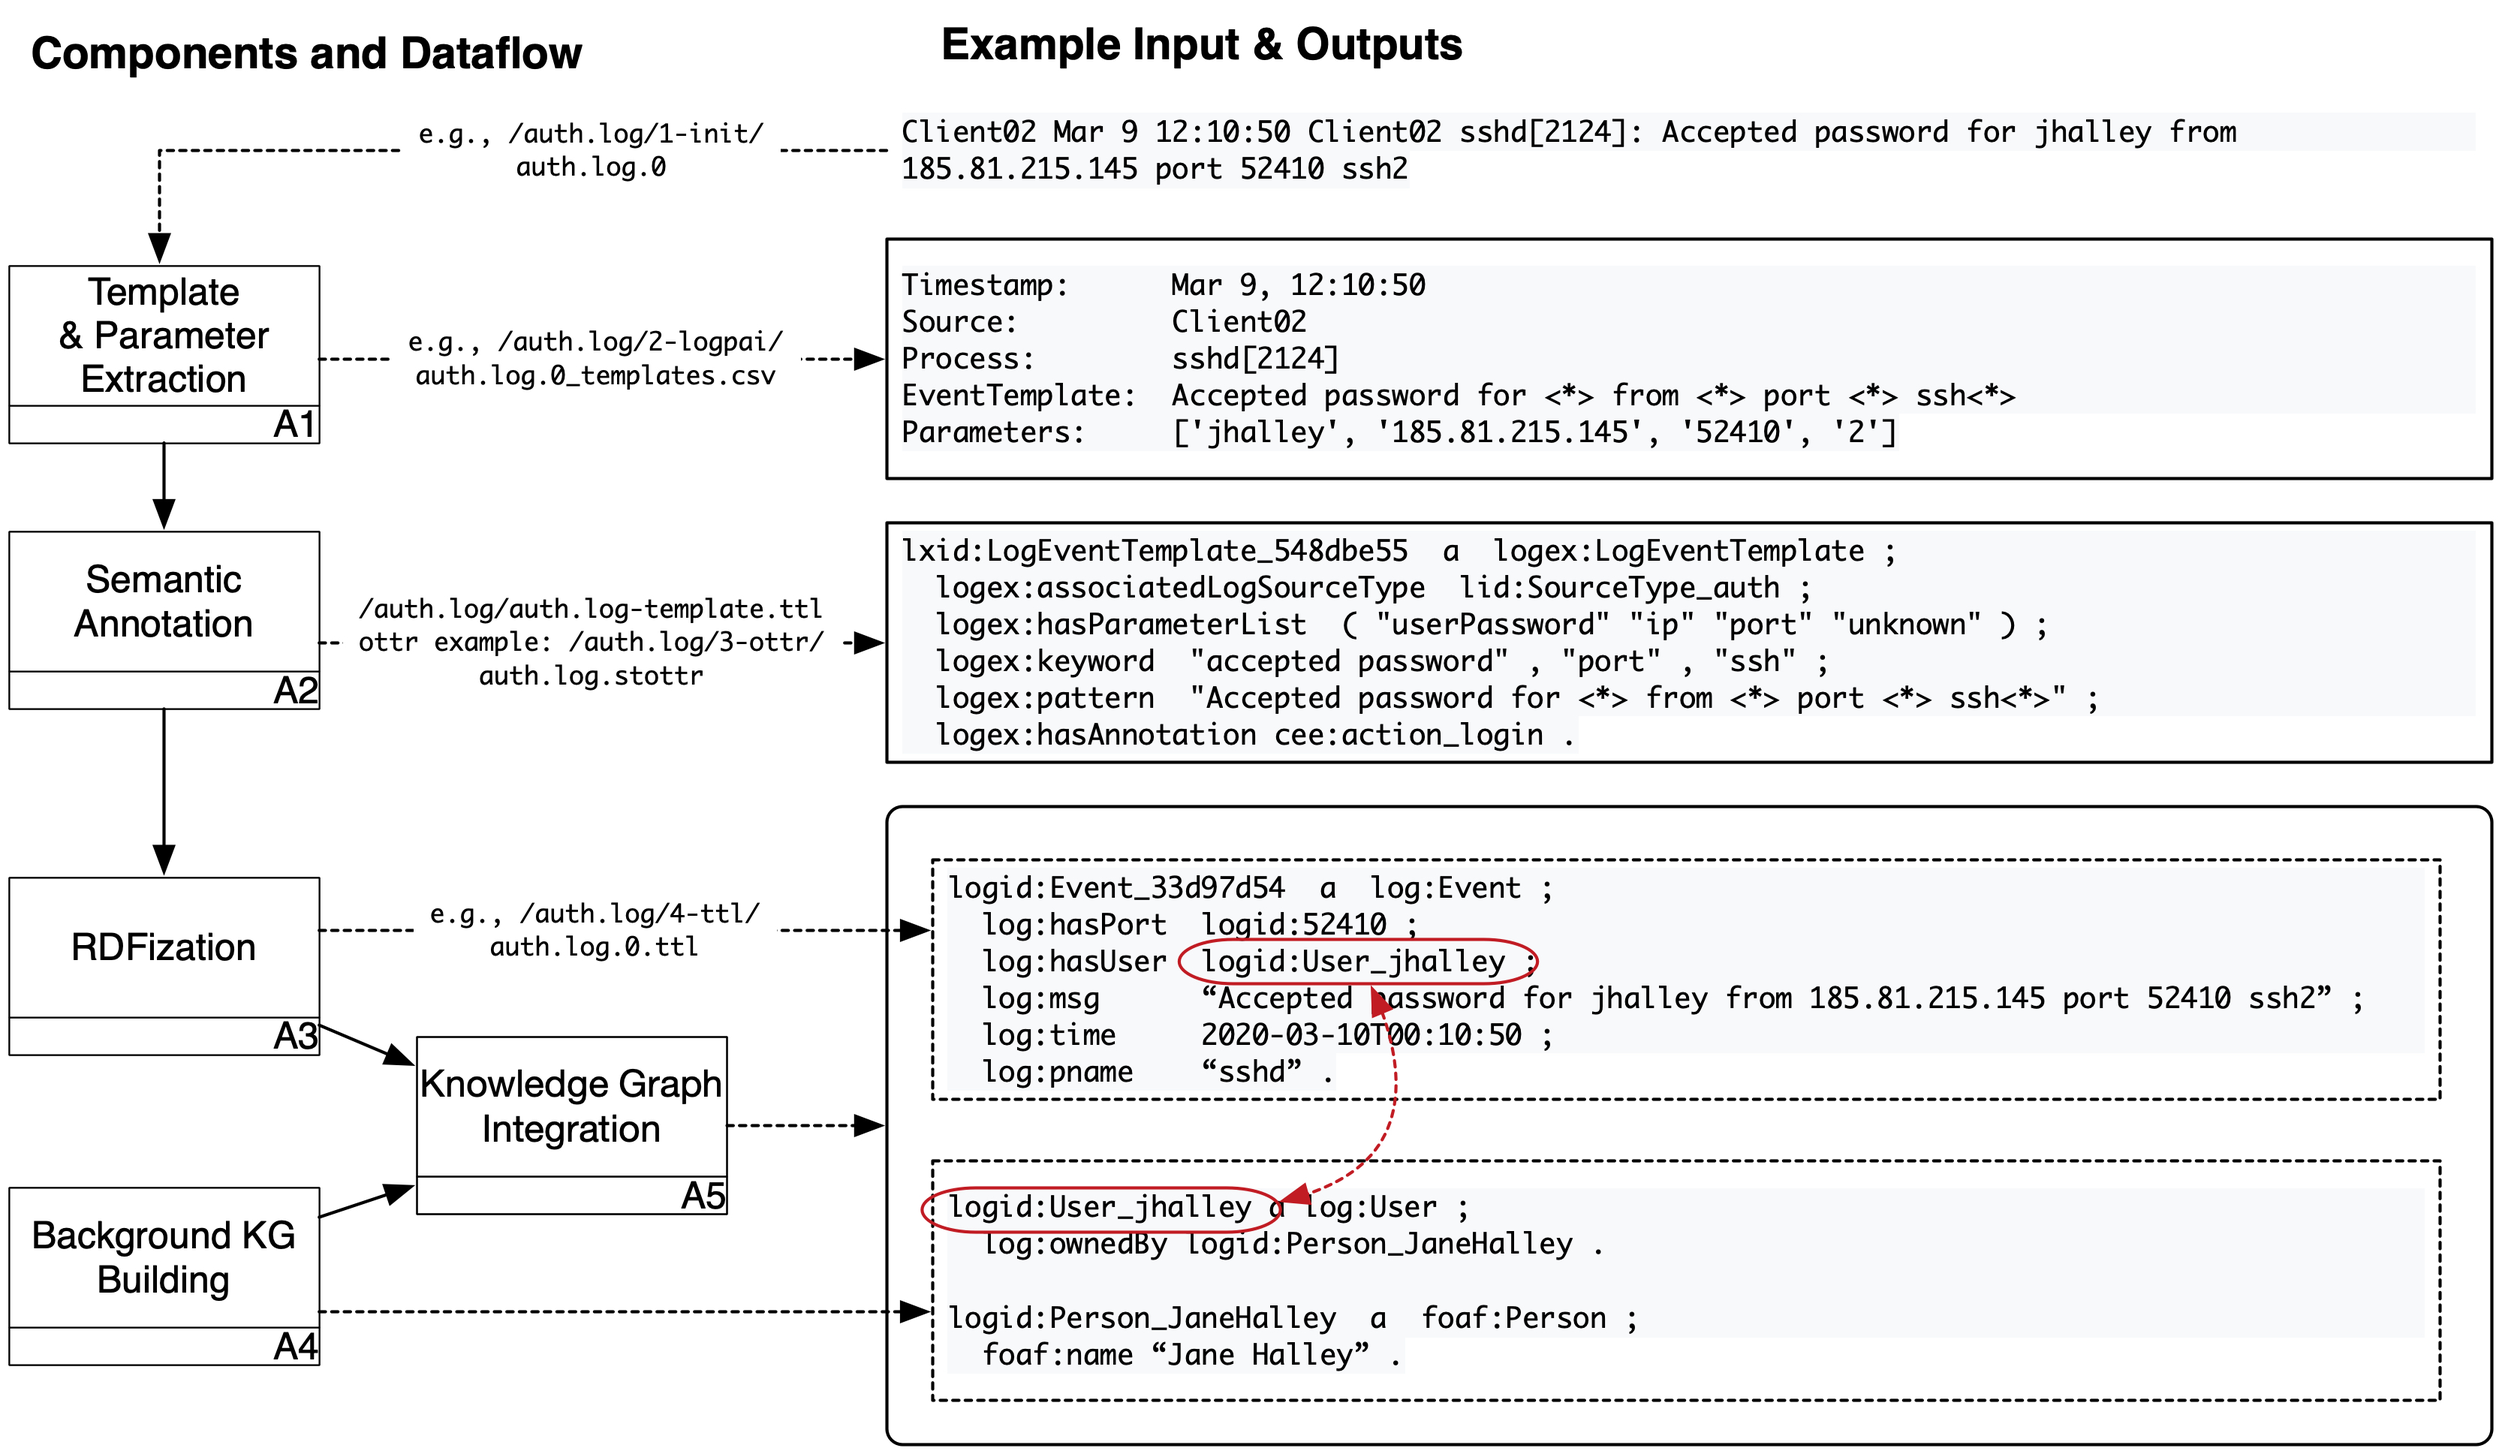
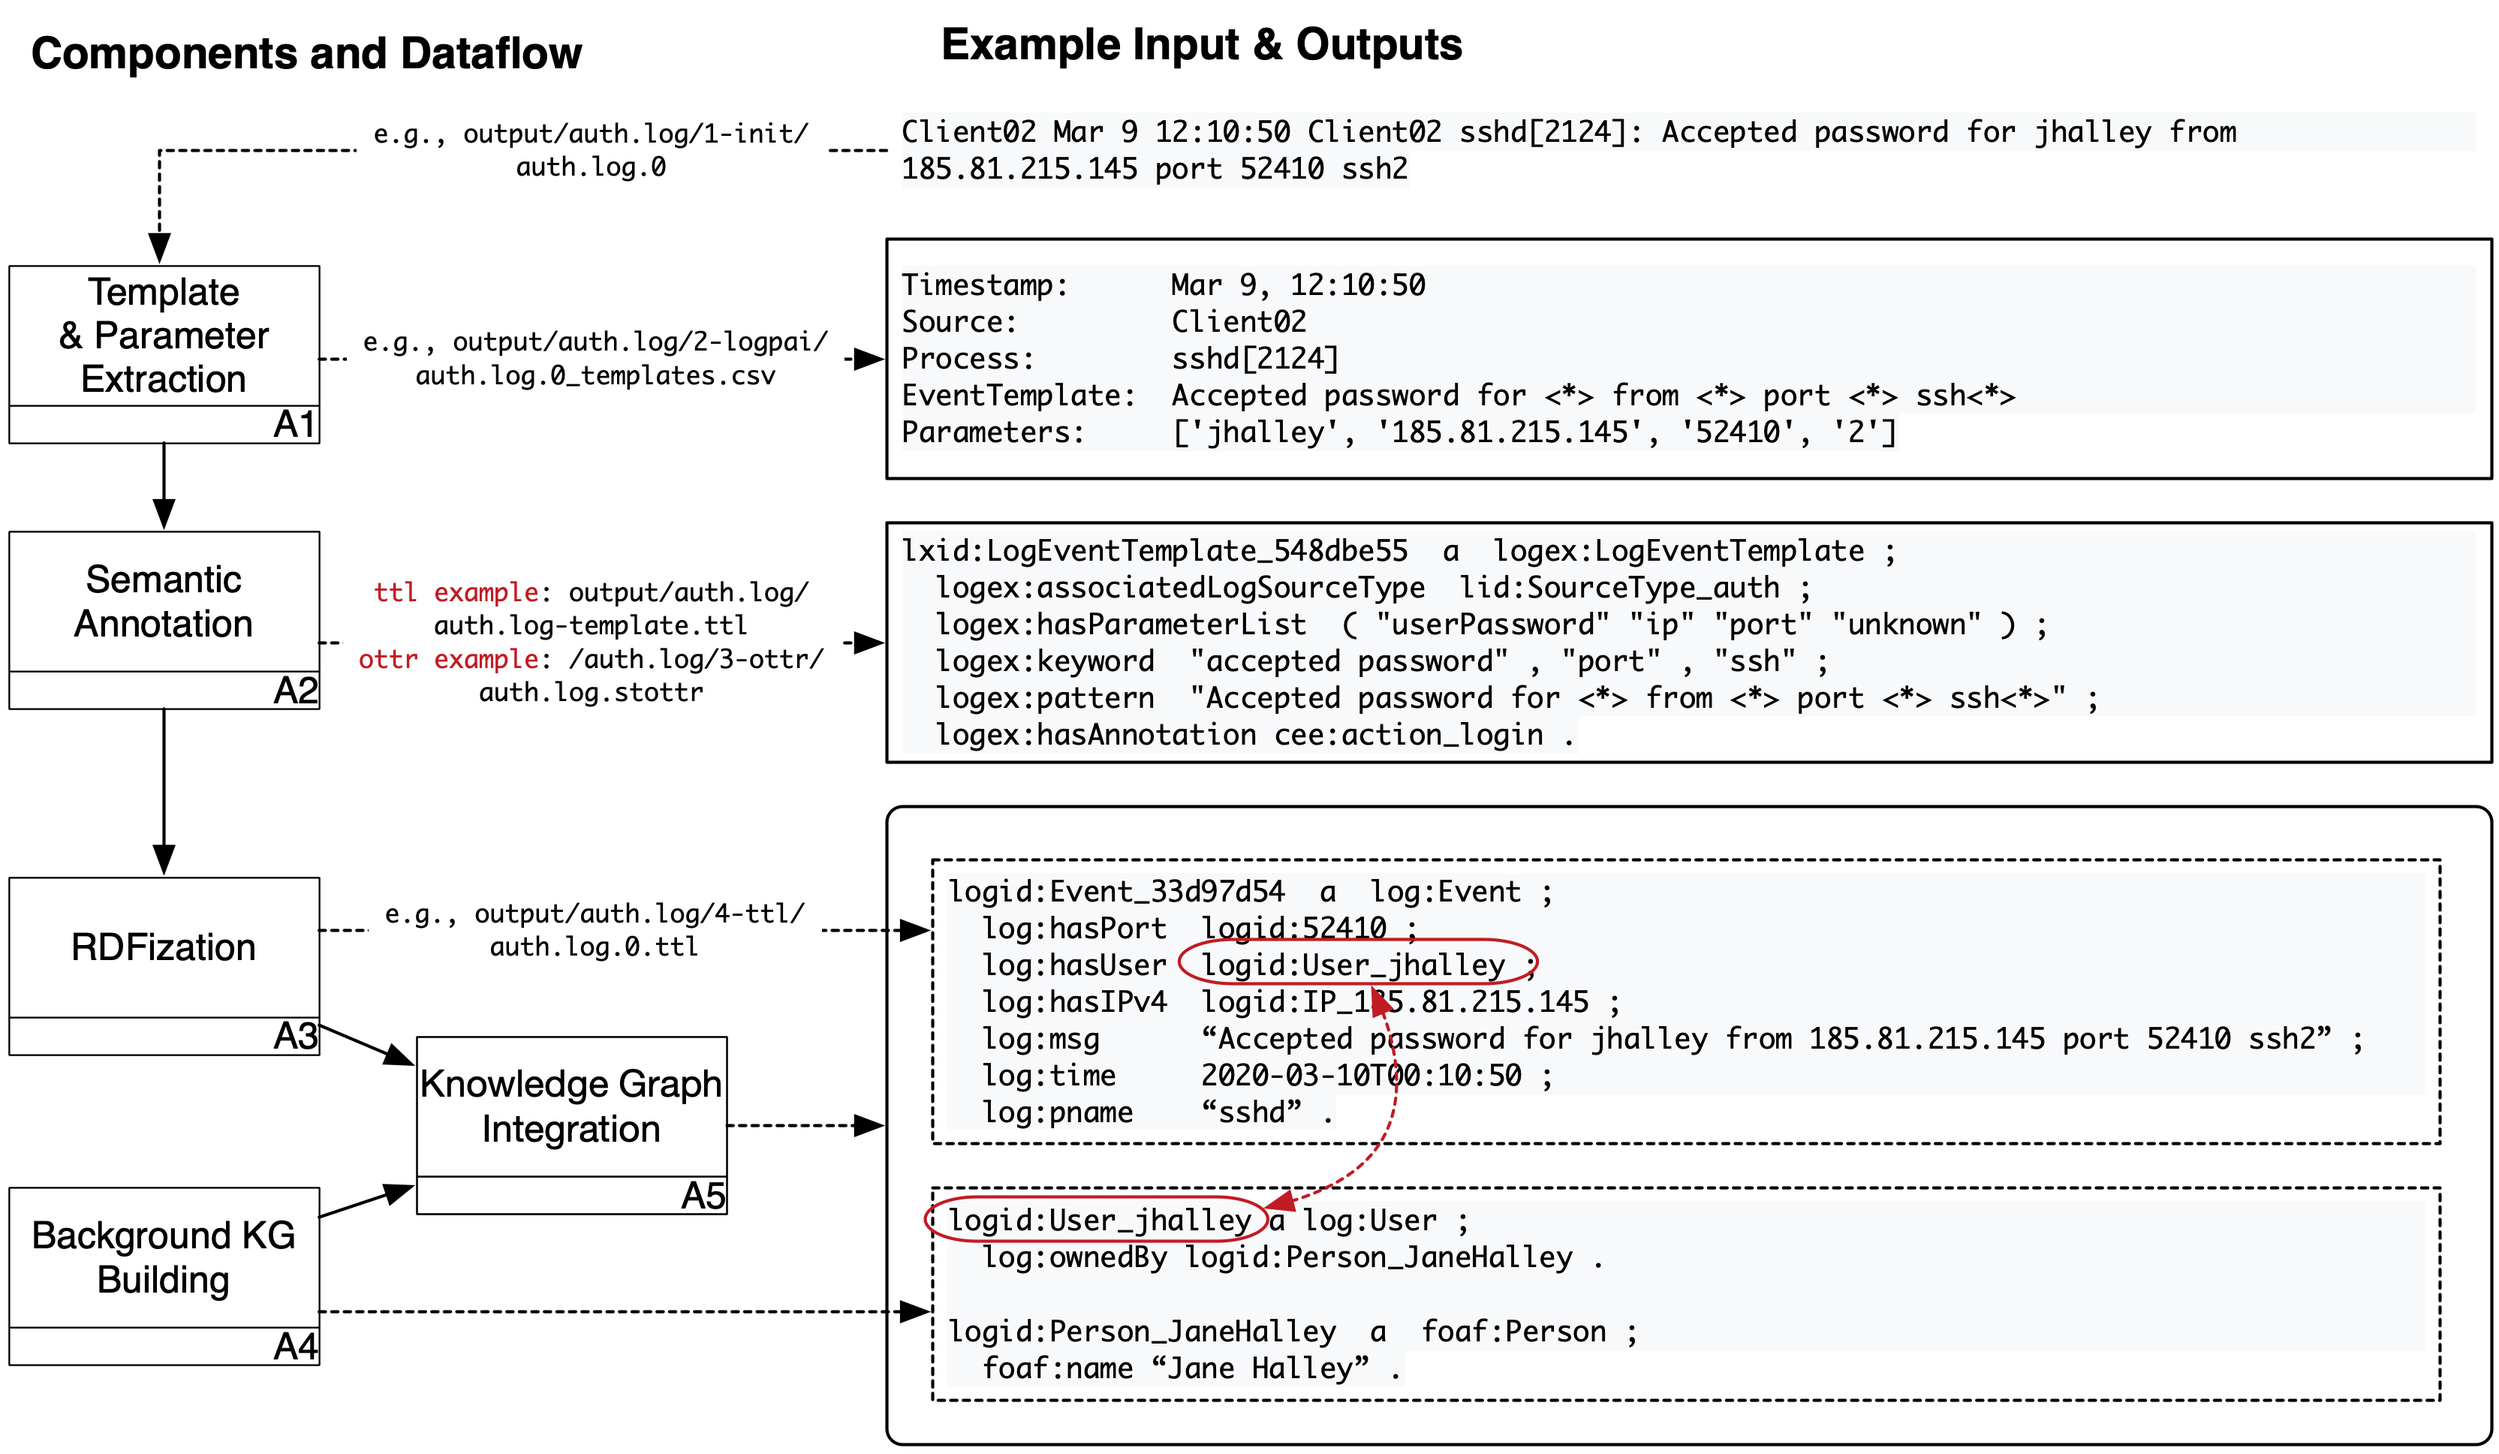
readme update with figure

diff --git a/README.md b/README.md
@@ -22,18 +22,11 @@ We have tested our approach on text-based logs produced by Unix OSs, in particul
 In our latest evaluation, we are testing our approach with the [AIT log dataset](https://zenodo.org/record/4264796), which contains additional logs from non-standard application, such as [suricata](https://suricata-ids.org/) and [exim4](https://ubuntu.com/server/docs/mail-exim4). In this repository, we include a small excerpt of the AIT log dataset in the `input` folder as example log sources.
 
 ## Workflow
-
-Prerequisites for running SLOGERT
-
-- `Java 11` (for Lutra)
-- `Apache Maven`
-- `Python 2` with `pandas` and `python-scipy` installed (for LogPai)
-    - the default setting is to use `python` command to invoke Python 2
-    - if this is not the case, modification on the `LogIntializer.java` is needed.
     
-     
+![ ](https://raw.githubusercontent.com/sepses/slogert/master/slogert.jpg)
+<p align="center">**Figure 1**. SLOGERT workflow.</p>     
 
-SLOGERT works in the following flow, notes that the result from each step will be structured accordingly (in the output folder) after the execution is finished.
+SLOGERT works in the following flow (cf. Figure 1), notes that the result from each step will be structured accordingly (in the output folder) after the execution is finished.
 
   - **1-init**: collect all files with name `<source>`, write it into a single file    
       * **1.1 device identification**: add device info as the first keyword in the logline    
@@ -53,6 +46,13 @@ SLOGERT works in the following flow, notes that the result from each step will b
   - **4-turtle**: ttl conversion - running lutra engine to convert OTTR instances into RDF graphs
 
 ## How to run
+Prerequisites for running SLOGERT
+
+- `Java 11` (for Lutra)
+- `Apache Maven`
+- `Python 2` with `pandas` and `python-scipy` installed (for LogPai)
+    - the default setting is to use `python` command to invoke Python 2
+    - if this is not the case, modification on the `LogIntializer.java` is needed.
 
 We have tried and and tested SLOGERT on Mac OSX and Ubuntu with the following steps:
 
